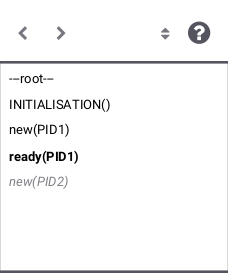
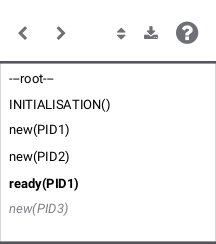
updating history view help and adding some new lines

diff --git a/src/main/resources/help/Project.md b/src/main/resources/help/Project.md
@@ -8,23 +8,35 @@ The Project View contains several tabs:
 * __Run Configurations__, containing machines paired with preferences (each pair has its own entry)
 
 ##Project Tab
+
 ![Project Tab](screenshots/Project/Project Tab.png)
+
 This tab shows the name and the description of the current project. Both are either automatically generated by opening a machine or chosen by the user who manually created the project and can be changed by double clicking on each respectively.
 
 ##Machines Tab
+
 ![Machines Tab](screenshots/Project/Machines Tab.png)
+
 This tab shows the machines belonging to the project. By using the plus button several machines can be added to the project. By clicking right on a specific machine this machine can be edited or removed from the project.
 
 ##Verifications Tab
+
 ![Verifications Tab](screenshots/Project/Verifications Tab.png)
+
 This tab shows the status of each type of verification run on the machines contained by the project. If no test of a specific verification type has been run, a blue questionmark sign is shown. If the verification type could not recognize any failures, a green check will be displayed. If a test failed, a red x sign will be shown.
 
 ##Preferences Tab
+
 ![Preferences Tab](screenshots/Project/Preferences Tab.png)
+
 This tab allows to add, edit and remove preference settings and shows a list of these preference settings by the names chosen by the user. By pressing the plus button you can add and by right clicking on a specific preference setting you can edit and remove.
+
 ![Add Preference](screenshots/Project/Add Preference.png)
+
 The screenshot above shows the window for adding and editing preferences.
 
 ##Run Configurations Tab
+
 ![Runconfigurations Tab](screenshots/Project/Runconfigurations Tab.png)
+
 This tab allows to pair up machines and preferences. The machine running with default preferences will be displayed just by name. Run configurations combining a machine with a custom preference setting are shown as _machinename.preferencename_.

diff --git a/src/main/resources/help/History.md b/src/main/resources/help/History.md
@@ -1,5 +1,5 @@
 ![History View](screenshots/History.png)
 
-The History View shows a list of already executed operations. The items contained in this list are linked to the State View: When selecting one of these items, State View shows the current and the previous state of the chosen machine.  The chrevron buttons on the left allow to go back and forth in history by one step. The two buttons on the right provide sorting and help.
+The History View shows a list of already executed operations. The items contained in this list are linked to the State View: When selecting one of these items, State View shows the current and the previous state of the chosen machine.  The chrevron buttons on the left allow to go back and forth in history by one step. The two buttons on the right provide sorting, saving a trace and help.
 
 Note that if you choose to go back in history and execute an operation the previously following one will be lost. 

diff --git a/src/main/resources/help/Verification.md b/src/main/resources/help/Verification.md
@@ -30,7 +30,7 @@ By pressing the plus button you can add several symbolic checking variants. The 
 
 ![Add SC](screenshots/Verifications/Add%20SC.png)
 
-The dropdown menu allows you to select the type of check. Some variants of the symbolic checking might need additional parameters (e.g. Invariants needs an operation).
+The dropdown menu allows you to select the type of check. Some variants of the symbolic checking might need additional parameters (e.g. Invariant needs an operation).
 
 ## Trace Replay
 ![Trace Replay](screenshots/Verifications/Trace%20Replay.png)
